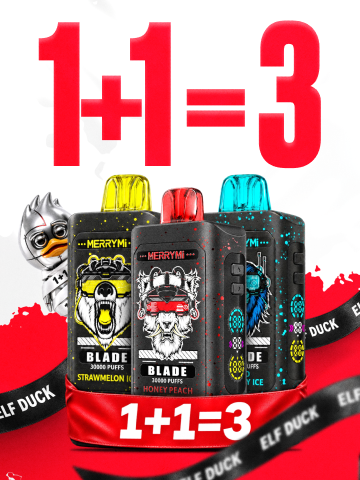
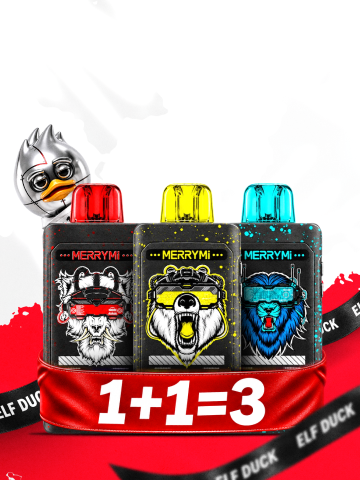
some updates

diff --git a/elf.duck.clean/src/lib/productImages.js b/elf.duck.clean/src/lib/productImages.js
@@ -8,7 +8,7 @@ import {
 } from "./productCardLayout.js";
 
 /** Версія файлів у /public/products — збільшуй після заміни PNG (обхід кешу Telegram). */
-export const PRODUCT_CARD_ASSET_VERSION = "19";
+export const PRODUCT_CARD_ASSET_VERSION = "20";
 
 /** Фони карток як у xros-5 / puffy (IPFS), без catalog-smoke. */
 const CARD_BG_REF = {
